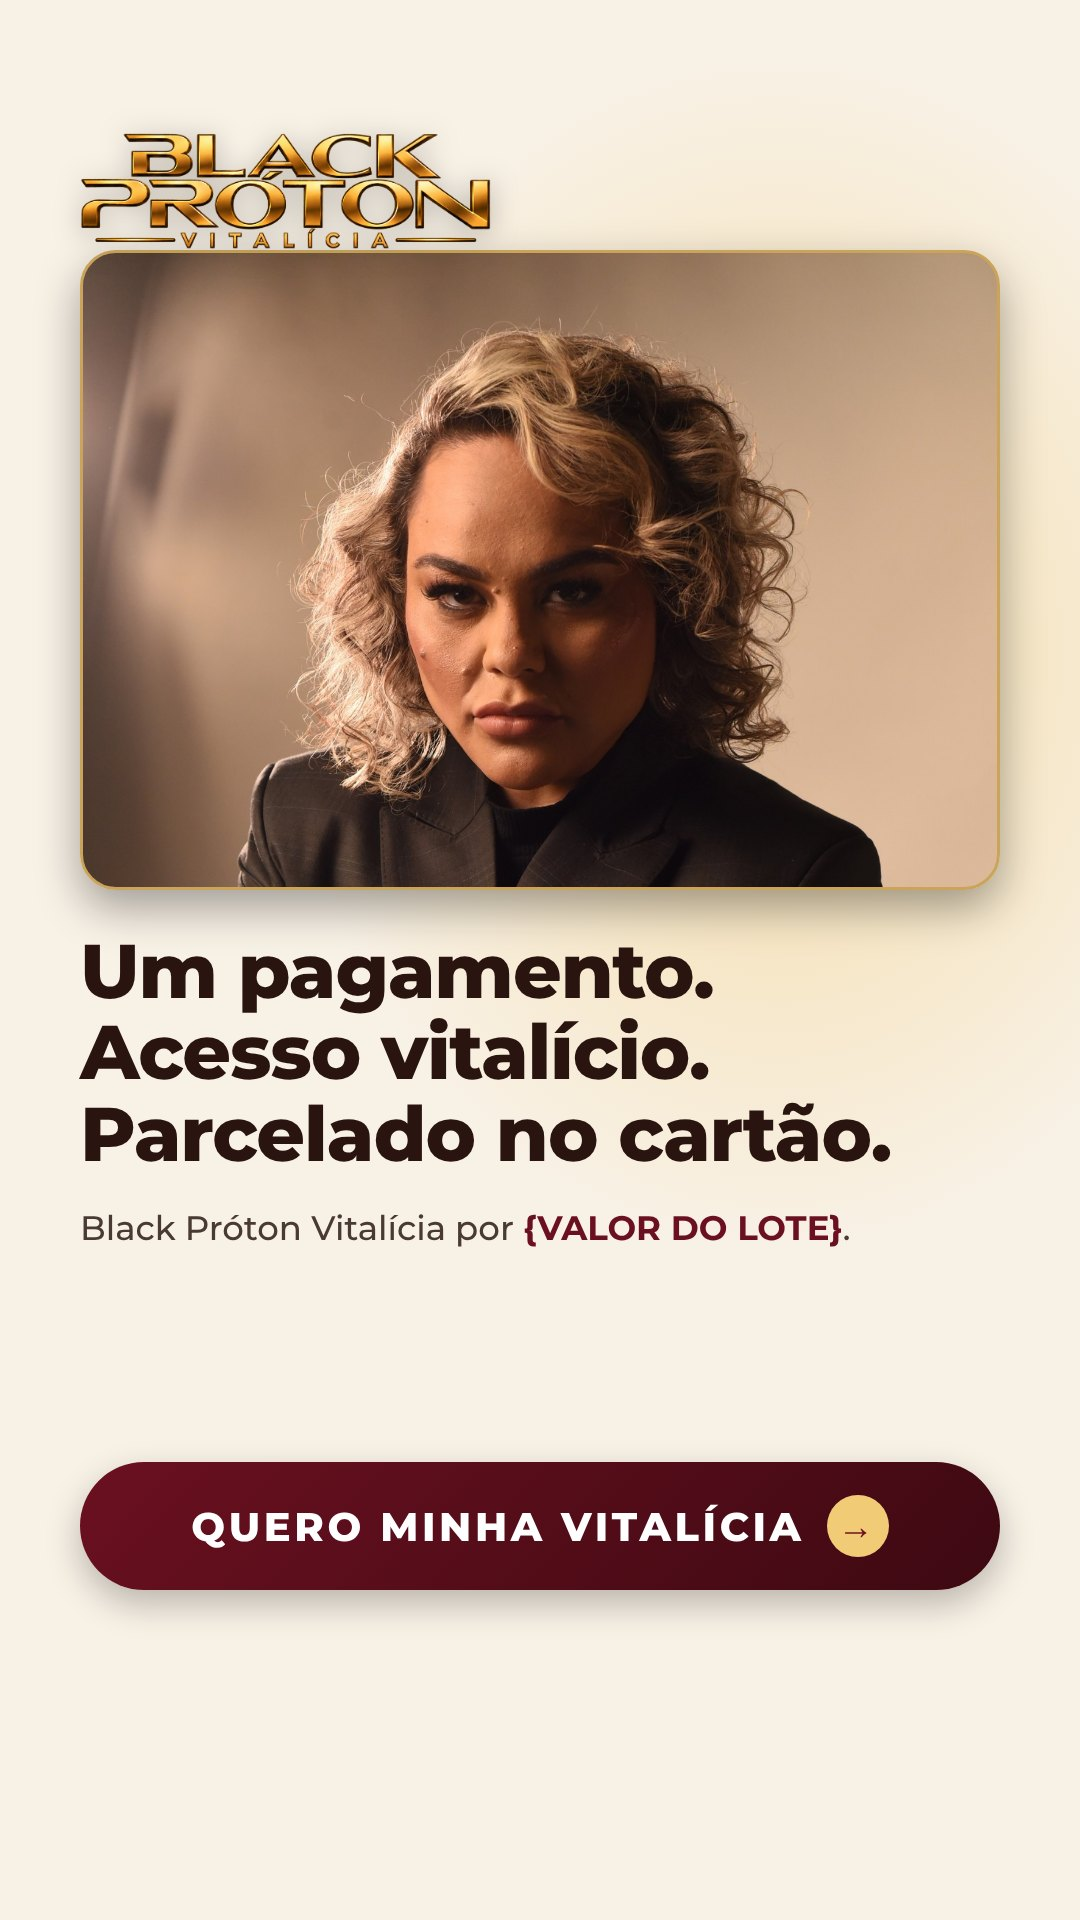
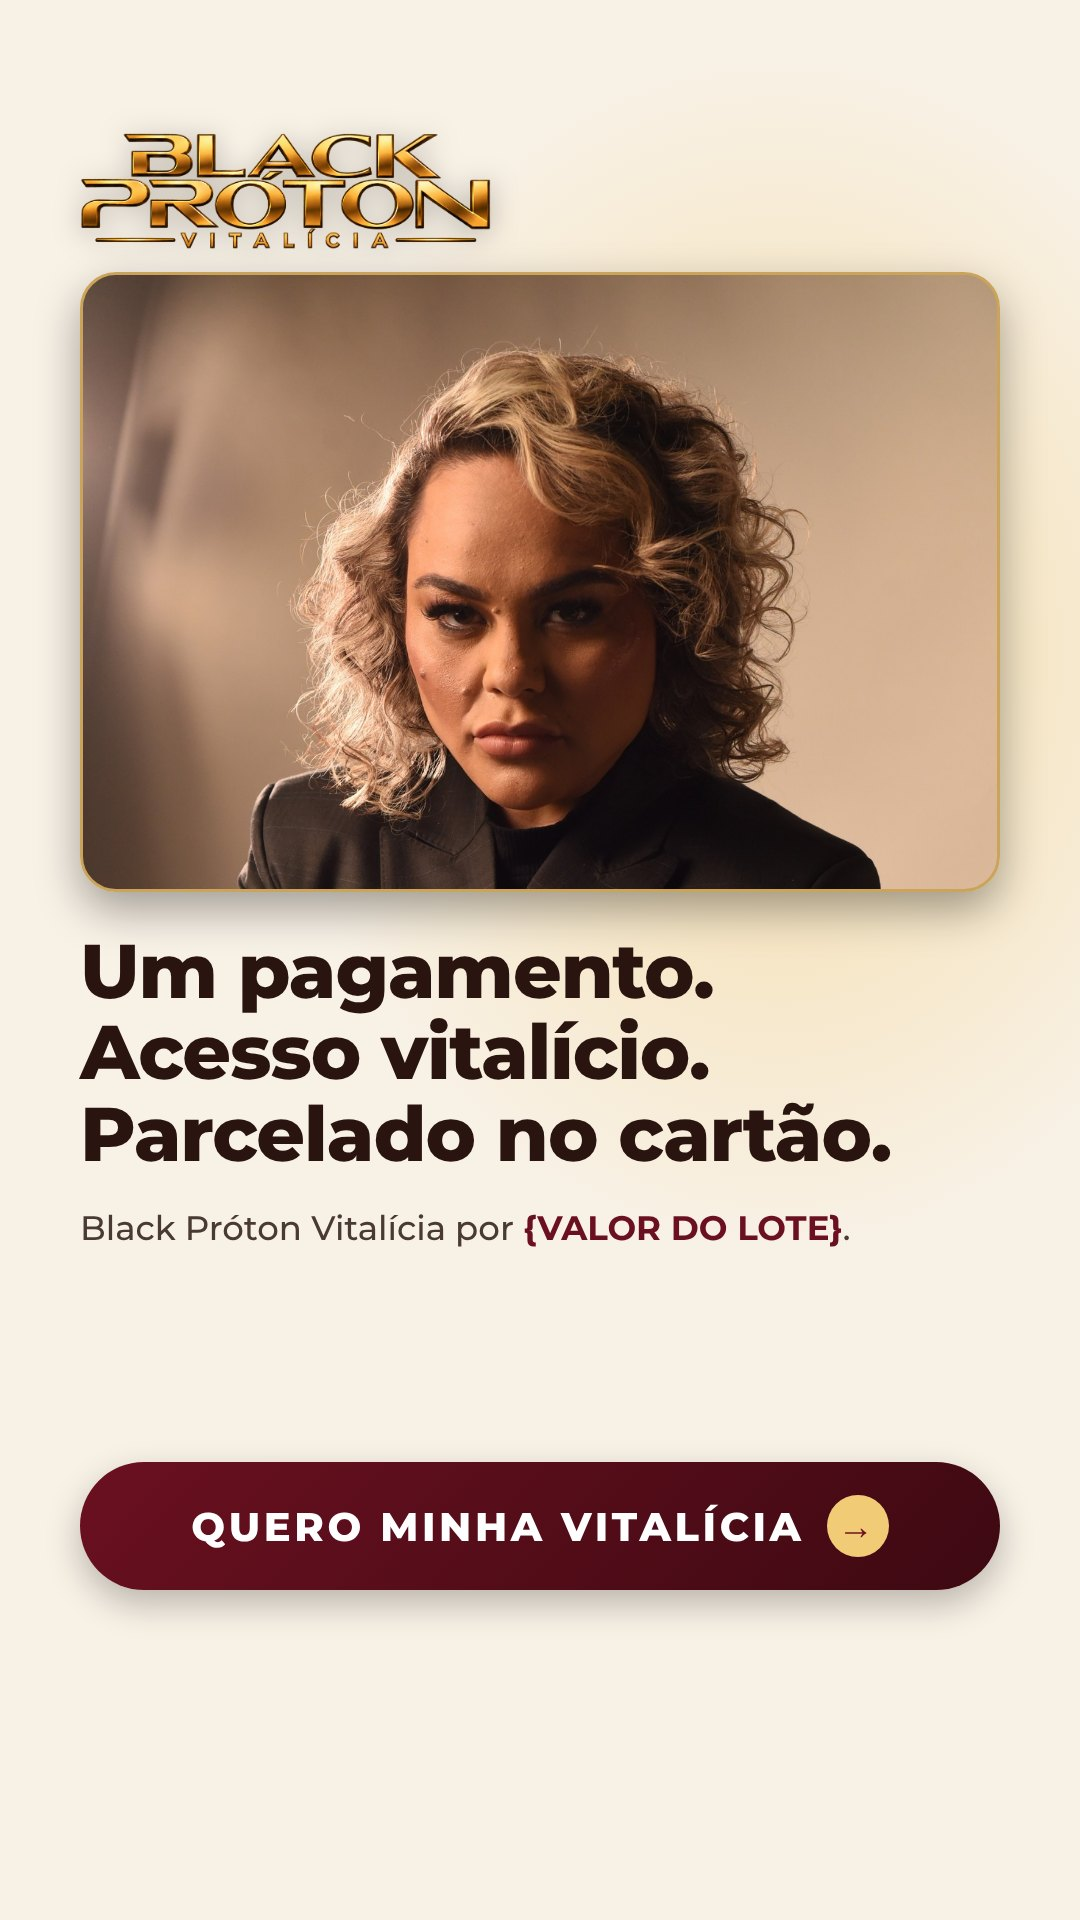
Progresso LEM/VEN
Claude-Session: https://claude.ai/code/session_01XttdTbpYBzsaA5vhN67mRE

diff --git a/black-vitalicia/.render-9532.html b/black-vitalicia/.render-9532.html
@@ -1,0 +1,23 @@
+<!doctype html><html><head><meta charset="utf-8"><style>@font-face{font-family:Montserrat;font-weight:400;src:url('file:///home/user/Geral/black-vitalicia/node_modules/@fontsource/montserrat/files/montserrat-latin-400-normal.woff2')}@font-face{font-family:Montserrat;font-weight:500;src:url('file:///home/user/Geral/black-vitalicia/node_modules/@fontsource/montserrat/files/montserrat-latin-500-normal.woff2')}@font-face{font-family:Montserrat;font-weight:600;src:url('file:///home/user/Geral/black-vitalicia/node_modules/@fontsource/montserrat/files/montserrat-latin-600-normal.woff2')}@font-face{font-family:Montserrat;font-weight:700;src:url('file:///home/user/Geral/black-vitalicia/node_modules/@fontsource/montserrat/files/montserrat-latin-700-normal.woff2')}@font-face{font-family:Montserrat;font-weight:800;src:url('file:///home/user/Geral/black-vitalicia/node_modules/@fontsource/montserrat/files/montserrat-latin-800-normal.woff2')}*{margin:0;padding:0;box-sizing:border-box}
+html,body{width:1080px;height:1920px}
+body{font-family:Montserrat;background:#F8F1E6;color:#2a1410;position:relative;overflow:hidden}
+.glow{position:absolute;inset:0;background:radial-gradient(ellipse 65% 45% at 72% 34%,rgba(242,203,118,.55),transparent 70%)}
+.logo{position:absolute;left:80px;top:130px;width:420px;filter:drop-shadow(0 4px 14px rgba(0,0,0,.25))}
+.foto{position:absolute;background-repeat:no-repeat;background-size:cover}
+em{font-style:normal;color:#B8862E}
+b{font-weight:700;color:#6b1020}
+.eyebrow{font-weight:700;letter-spacing:.28em;text-transform:uppercase;font-size:25px;color:#B8862E;display:flex;align-items:center;gap:18px}
+.eyebrow::after{content:"";width:90px;height:2px;background:#B8862E;opacity:.7}
+h1{font-weight:800;letter-spacing:-1.2px;line-height:1.07}
+.sub{font-weight:500;line-height:1.42;color:#4a3a34}
+.card{border-radius:24px;background:linear-gradient(135deg,#6b1020,#3d0912);border:none;display:flex;flex-direction:column;align-items:center;justify-content:center;text-align:center;box-shadow:0 14px 34px rgba(0,0,0,.22)}
+.card small{font-weight:600;letter-spacing:.3em;text-transform:uppercase;font-size:24px;color:#F8E7C4;margin-bottom:6px}
+.card span{font-weight:800;color:#F2CB76;line-height:1}
+.btn{border-radius:999px;background:linear-gradient(135deg,#6b1020,#3d0912);color:#ffffff;font-weight:800;letter-spacing:.09em;text-transform:uppercase;display:flex;align-items:center;justify-content:center;gap:22px;box-shadow:0 14px 34px rgba(0,0,0,.25)}
+.btn i{font-style:normal;width:62px;height:62px;border-radius:50%;background:#F2CB76;color:#6b1020;display:flex;align-items:center;justify-content:center;font-size:36px;line-height:1}
+.selo{display:inline-block;background:#6b1020;color:#F8E7C4;font-weight:800;letter-spacing:.16em;text-transform:uppercase;border-radius:10px;padding:12px 22px;font-size:26px}
+.capa{position:absolute;border-radius:18px;overflow:hidden;box-shadow:0 18px 40px rgba(0,0,0,.45);border:1.5px solid #C9A45A}
+.capa img{width:100%;height:100%;object-fit:cover;display:block}
+h1{text-wrap:balance}.sub{text-wrap:pretty}.card span{white-space:nowrap}.card span{font-size:64px!important}.foto{top:272px!important;left:80px!important;width:920px!important;height:620px!important;-webkit-mask-image:none!important;mask-image:none!important;border-radius:36px;border:3px solid #C9A45A;box-shadow:0 18px 44px rgba(0,0,0,.35)}body>div[style*="top:760px"]{top:930px!important}</style></head><body><div class="glow"></div><div class="foto" style="left:0;top:0;width:1080px;height:980px;background-image:url('file:///home/user/Geral/black-vitalicia/fotos/foto-32.jpg');background-position:50% 10%;
+      -webkit-mask-image:linear-gradient(180deg,#000 55%,transparent 100%);mask-image:linear-gradient(180deg,#000 55%,transparent 100%)"></div><img class="logo" src="file:///home/user/Geral/black-vitalicia/assets/logo-dourado.png"><div style="position:absolute;left:80px;right:80px;top:760px;display:flex;flex-direction:column;gap:30px"><div style="display:flex;flex-direction:column;gap:30px"><div class="eyebrow">SÓ PARA ALUNAS</div><h1 style="font-size:66px">Aluna do Clube Secreto paga <em>R$ 1.000 a menos</em></h1><p class="sub" style="font-size:34px">Em todos os lotes da Black Próton Vitalícia. <em>Seu valor agora:</em> <b>{VALOR DO LOTE ALUNAS}</b>.</p></div></div>
+      <div style="position:absolute;left:80px;right:80px;bottom:330px;display:flex;flex-direction:column;gap:26px"><div class="btn" style="height:128px;font-size:40px">QUERO MINHA VITALÍCIA<i>→</i></div></div></body></html>
